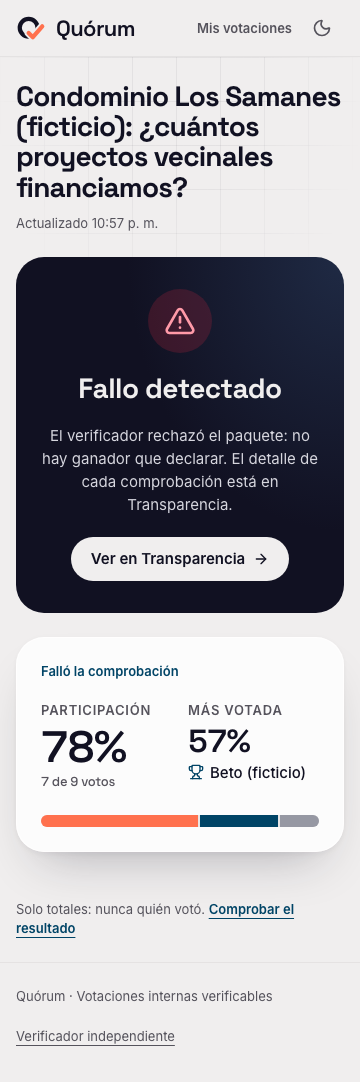
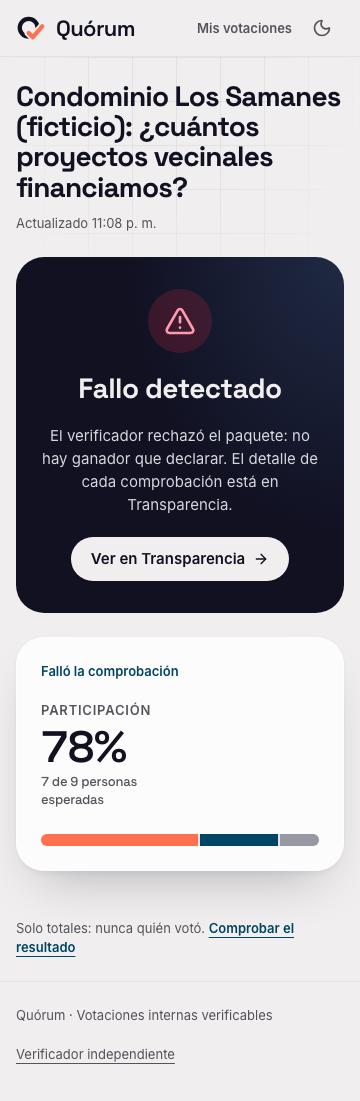
D-24: mínimo en 2 (K por defecto y desglose desde 2 votos); copy, tests y capturas al día
Claude-Session: https://claude.ai/code/session_0126UDXVedLgwsVx5cb5fxdw

diff --git a/apps/web/e2e/screenshots.fotos.spec.ts b/apps/web/e2e/screenshots.fotos.spec.ts
@@ -67,7 +67,7 @@ function tallyOf(mock: MockV1, counts: number[], phase: Phase) {
     leadingShare: total ? Math.max(...counts) / total : null,
     closesAt: "2026-10-24T22:00:00.000Z",
     status: phase,
-    options: mock.options.map((o, i) => ({ id: o.id, label: o.label, count: total >= 5 ? (counts[i] ?? 0) : null })),
+    options: mock.options.map((o, i) => ({ id: o.id, label: o.label, count: total >= 2 ? (counts[i] ?? 0) : null })),
   });
 }
 
@@ -109,9 +109,10 @@ test("espera animada y boleta con fotos (modo continuo)", async ({ page }) => {
   const imgs = await photos(page);
   const mock = new MockV1("open");
   mock.continuous = true;
-  mock.groupSize = 2; // con ella serán 3: faltan 2 para K=5
+  mock.minAnonymitySet = 2; // D-24: K por defecto
+  mock.groupSize = 0; // con ella será 1: falta 1 para K=2
   mock.options = optionsWithPhotos(imgs);
-  mock.room = { code: CODE, open: true, seatsTaken: 2, maxSeats: 500, expiresAt: new Date(Date.now() + 170 * 60_000).toISOString(), closedReason: null };
+  mock.room = { code: CODE, open: true, seatsTaken: 0, maxSeats: 500, expiresAt: new Date(Date.now() + 170 * 60_000).toISOString(), closedReason: null };
   await mock.install(page);
   await page.goto(`/j/${CODE}`);
   await page.getByLabel("Tu nombre o apodo").fill("Vecina del 4B");
@@ -119,7 +120,7 @@ test("espera animada y boleta con fotos (modo continuo)", async ({ page }) => {
   await expect(page.getByRole("heading", { name: "En espera para iniciar la votación" })).toBeVisible({ timeout: 60_000 });
   await page.waitForTimeout(900); // deja pasar la entrada de la página; las ondas siguen vivas (un fotograma)
   await page.screenshot({ path: path.join(OUT, "espera-360.png") });
-  mock.groupSize = 5;
+  mock.groupSize = 2;
   const options = page.getByRole("radio");
   await expect(options).toHaveCount(3, { timeout: 15_000 });
   await shot(page, "boleta-fotos-360");
@@ -161,7 +162,7 @@ test("en vivo: tarjetas, ganador, empate y fallo detectado", async ({ page }) =>
     await mock.install(page);
     await page.setViewportSize({ width: 360, height: 740 });
     await page.goto(`/e/${E2E.electionId}/live`);
-    await expect(page.getByText(NAMES[1]!).first()).toBeVisible();
+    await expect(page.getByText(NAMES[1]!).locator("visible=true").first()).toBeVisible();
     await page.waitForTimeout(800);
     await shot(page, `${c.name}-360`, true);
     await page.setViewportSize({ width: 1440, height: 900 });

diff --git a/apps/web/src/lib/server/__tests__/continuous-edge.test.ts b/apps/web/src/lib/server/__tests__/continuous-edge.test.ts
@@ -57,7 +57,7 @@ type Org = { id: string; auth: Record<string, string>; code: string };
 type Seat = { voterId: string; inviteToken: string };
 
 async function setup(extra: Record<string, unknown> = {}): Promise<Org> {
-  const { votingMode: _phased, ...base } = sampleElection(extra);
+  const { votingMode: _phased, ...base } = sampleElection({ minAnonymitySet: 5, ...extra });
   void _phased;
   const created = await call(createElection, { body: base });
   expect(created.status).toBe(201);
@@ -205,18 +205,18 @@ describe("modo continuo · casos límite (QA evento en vivo)", () => {
     expect((await call(audit, { params: { id: org.id } })).json.auditResult.valid).toBe(true);
   }, 120_000);
 
-  it("C3 en continuo: mientras se vota el desglose sale por lotes de 5 boletas (el 6.º voto no lo mueve); al cerrar, exacto", async () => {
+  it("C3 en continuo: mientras se vota el desglose sale por lotes de 2 boletas (el 5.º voto no lo mueve, el 6.º sí); al cerrar, exacto", async () => {
     const org = await setup({ minAnonymitySet: 2 });
     const people = [];
     for (let i = 0; i < 6; i++) people.push(await enter(org, 950 + i));
     const choices = [0, 0, 1, 2, 1, 2];
     for (let i = 0; i < 5; i++) expect((await ballot(org, await proofFor(org, people[i].identity.privateKey, choices[i]))).status).toBe(201);
     const five = (await call(tally, { params: { id: org.id } })).json;
-    expect(five.options.map((o: { count: number }) => o.count)).toEqual([2, 2, 1]);
+    expect(five.options.map((o: { count: number }) => o.count)).toEqual([2, 1, 1]); // 4 del lote completo; el 5.º espera
     expect((await ballot(org, await proofFor(org, people[5].identity.privateKey, choices[5]))).status).toBe(201);
     const six = (await call(tally, { params: { id: org.id } })).json;
     expect(six).toMatchObject({ totalVotes: 6, eligible: 6, status: "open" });
-    expect(six.options.map((o: { count: number }) => o.count)).toEqual([2, 2, 1]);
+    expect(six.options.map((o: { count: number }) => o.count)).toEqual([2, 2, 2]); // el 6.º completa el lote
     await call(close, { params: { id: org.id }, headers: org.auth });
     const final = (await call(tally, { params: { id: org.id } })).json;
     expect(final.options.map((o: { count: number }) => o.count)).toEqual([2, 2, 2]);

diff --git a/apps/web/src/lib/server/__tests__/adversarial.test.ts b/apps/web/src/lib/server/__tests__/adversarial.test.ts
@@ -297,20 +297,20 @@ describe("AT-10 privacidad de datos públicos y de la DB (public_data_privacy)",
     expect(caracasDayStart(new Date("2026-10-24T03:59:59.999Z")).toISOString()).toBe("2026-10-23T04:00:00.000Z");
   });
 
-  it("tally en vivo por lotes de 5: el 6.º voto no cambia el desglose hasta completar el lote; al cerrar, recuento exacto", async () => {
+  it("tally en vivo por lotes de MIN_VOTES_FOR_BREAKDOWN (2): el 7.º voto no cambia el desglose hasta completar el lote; al cerrar, recuento exacto", async () => {
     const org = await setupRegistration();
     const vs = [];
-    for (let i = 0; i < 6; i++) vs.push(await register(org, 90 + i));
+    for (let i = 0; i < 7; i++) vs.push(await register(org, 90 + i));
     await openIt(org);
-    const opts = [0, 0, 1, 2, 2, 1];
-    for (let i = 0; i < 6; i++) expect((await call(vote, { params: { id: org.id }, body: { proof: await ballot(org.id, vs[i].identity.privateKey, opts[i]) } })).status).toBe(201);
+    const opts = [0, 0, 1, 2, 2, 1, 0];
+    for (let i = 0; i < 7; i++) expect((await call(vote, { params: { id: org.id }, body: { proof: await ballot(org.id, vs[i].identity.privateKey, opts[i]) } })).status).toBe(201);
     const live = (await call(tally, { params: { id: org.id } })).json;
-    expect(live.totalVotes).toBe(6);
-    expect(live.options.map((o: { count: number }) => o.count)).toEqual([2, 1, 2]);
-    expect(live.leadingShare).toBeCloseTo(2 / 5);
+    expect(live.totalVotes).toBe(7);
+    expect(live.options.map((o: { count: number }) => o.count)).toEqual([2, 2, 2]); // 6 del lote completo; el 7.º espera
+    expect(live.leadingShare).toBeCloseTo(2 / 6);
     await call(close, { params: { id: org.id }, headers: org.auth });
     const final = (await call(tally, { params: { id: org.id } })).json;
-    expect(final.options.map((o: { count: number }) => o.count)).toEqual([2, 2, 2]);
+    expect(final.options.map((o: { count: number }) => o.count)).toEqual([3, 2, 2]); // al cerrar, exacto
   }, 60_000);
 
   const PII_KEYS = ["displayName", "phoneE164", "inviteToken", "walletAddress", "faceBindingHash", "voterId"];

diff --git a/apps/web/src/components/LiveResultTile.tsx b/apps/web/src/components/LiveResultTile.tsx
@@ -2,7 +2,7 @@
 
 import { useEffect, useState } from "react";
 /* Agregados con fase v1 (registration/drawn además de las de v0). */
-import type { Aggregates } from "@quorum/contracts";
+import { MIN_VOTES_FOR_BREAKDOWN, type Aggregates } from "@quorum/contracts";
 import { Bar, BarChart, CartesianGrid, Cell, Pie, PieChart, ResponsiveContainer, Tooltip, XAxis, YAxis } from "recharts";
 import { Card, CardContent, CardHeader, CardTitle } from "@/components/ui/card";
 import { formatCountdown, formatInt, formatPercent } from "@/lib/client/format";
@@ -168,7 +168,7 @@ function BarListTile({ rows, data }: { rows: { name: string; votos: number }[]; 
 
 function HiddenTile({ title, data }: { title: string; data: Aggregates }) {
   return (
-    <TileShell title={title} note="Se muestra desde 5 votos, por privacidad.">
+    <TileShell title={title} note={`Se muestra desde ${MIN_VOTES_FOR_BREAKDOWN} votos, por privacidad.`}>
       <p className="text-heading font-semibold">{HIDDEN_NOTE}</p>
       <p className="text-small text-muted-foreground">Votos incluidos hasta ahora: {formatInt(data.totalVotes)}</p>
     </TileShell>
@@ -194,7 +194,7 @@ export function CountdownTile({ closesAt, status }: { closesAt: string; status: 
 
 const TEXTS: Record<"howToRead" | "privacyNote" | "rankingHint" | "budgetHint", { title: string; body: string }> = {
   howToRead: { title: "Cómo leer esto", body: "Totales publicados cada pocos segundos. No muestran quién votó ni votos individuales." },
-  privacyNote: { title: "Privacidad", body: "Con menos de 5 votos el desglose se oculta. El servidor ve el contenido de cada boleta." },
+  privacyNote: { title: "Privacidad", body: `Con menos de ${MIN_VOTES_FOR_BREAKDOWN} votos el desglose se oculta. El servidor ve el contenido de cada boleta.` },
   rankingHint: { title: "Orden de preferencia", body: "Las barras muestran menciones por opción. El orden final sale del escrutinio verificado." },
   budgetHint: { title: "Presupuesto participativo", body: "Apoyo acumulado por partida. El reparto sigue las reglas publicadas." },
 };

diff --git a/apps/web/src/components/__tests__/results.test.tsx b/apps/web/src/components/__tests__/results.test.tsx
@@ -25,9 +25,9 @@ describe("ResultsCard", () => {
     expect(screen.queryByText("Va ganando")).toBeNull();
   });
 
-  it("con menos de 5 votos oculta el desglose y dice cuántos faltan", () => {
+  it("con menos de 2 votos oculta el desglose y dice cuántos faltan", () => {
     render(<ResultsCard {...base} totalVotes={1} turnout={1 / 3} eligible={3} options={[{ id: "a", label: "Uno", count: null }, { id: "b", label: "Dos", count: null }]} />);
-    expect(screen.getByText("Faltan 4 votos para ver el desglose")).toBeTruthy();
+    expect(screen.getByText("Falta 1 voto para ver el desglose")).toBeTruthy();
     expect(screen.queryByText("Uno")).toBeNull();
     expect(screen.queryByText("Va ganando")).toBeNull();
   });
@@ -167,14 +167,14 @@ describe("WinnerScreen", () => {
     expect(screen.getByRole("link", { name: /Ver en Transparencia/ }).getAttribute("href")).toBe("/e/e2e-samanes");
   });
 
-  it("menos de 5 votos al cierre: sin desglose ni ganador", () => {
-    render(<WinnerScreen electionId="x" status="auditable" options={seven.map((o) => ({ ...o, count: null }))} totalVotes={3} audit={audit} />);
+  it("menos de 2 votos al cierre: sin desglose ni ganador", () => {
+    render(<WinnerScreen electionId="x" status="auditable" options={seven.map((o) => ({ ...o, count: null }))} totalVotes={1} audit={audit} />);
     const box = screen.getByTestId("winner-screen");
     expect(box.getAttribute("data-outcome")).toBe("hidden");
     expect(box.textContent).toContain("Se publicó sin desglose");
-    expect(box.textContent).toContain("Menos de 5 votos");
+    expect(box.textContent).toContain("Menos de 2 votos");
     expect(screen.queryByTestId("winner-name")).toBeNull();
     expect(screen.queryAllByTestId("ranked-card").length).toBe(0);
-    expect(winnerOutcome("auditable", seven, 4).kind).toBe("hidden");
+    expect(winnerOutcome("auditable", seven, 1).kind).toBe("hidden");
   });
 });

diff --git a/apps/web/e2e/screenshots.org.spec.ts b/apps/web/e2e/screenshots.org.spec.ts
@@ -129,16 +129,16 @@ test("panel: Más abierto con casos 360", async ({ page }) => {
   await shot(page, "panel-mas-casos", 360);
 });
 
-test("panel: votación con menos de 5 votos 360", async ({ page }) => {
+test("panel: votación con menos de 2 votos 360", async ({ page }) => {
   await at(page, 360, "open", (m) => {
     m.endsAt = new Date(Date.now() + 97 * 60_000).toISOString();
     m.votingStartsAt = new Date(Date.now() - 23 * 60_000).toISOString();
   });
   await page.route(`**/api/elections/${E2E.electionId}/tally`, (r) =>
-    r.fulfill({ contentType: "application/json", body: JSON.stringify({ electionId: E2E.electionId, turnout: 3 / 9, totalVotes: 3, eligible: 9, leadingShare: null, closesAt: "2026-10-24T22:00:00.000Z", status: "open", options: E2E.options.map((o) => ({ ...o, count: null })) }) }),
+    r.fulfill({ contentType: "application/json", body: JSON.stringify({ electionId: E2E.electionId, turnout: 1 / 9, totalVotes: 1, eligible: 9, leadingShare: null, closesAt: "2026-10-24T22:00:00.000Z", status: "open", options: E2E.options.map((o) => ({ ...o, count: null })) }) }),
   );
   await withToken(page);
   await page.goto(`/org/${E2E.electionId}`);
-  await expect(page.getByTestId("live-breakdown")).toContainText("3 de 5 votos");
+  await expect(page.getByTestId("live-breakdown")).toContainText("1 de 2 votos");
   await shot(page, "panel-votacion-pocos", 360);
 });

diff --git a/packages/contracts/src/index.ts b/packages/contracts/src/index.ts
@@ -18,8 +18,8 @@ export type ElectionStatus = z.infer<typeof ElectionStatus>;
  */
 export const VotingMode = z.enum(["continuous", "phased"]);
 export type VotingMode = z.infer<typeof VotingMode>;
-/** K por defecto: no se aceptan votos mientras el grupo tenga menos miembros. */
-export const DEFAULT_MIN_ANONYMITY_SET = 5;
+/** K por defecto (D-24): no se aceptan votos mientras el grupo tenga menos miembros. Con 2 la privacidad es mínima: se declara. */
+export const DEFAULT_MIN_ANONYMITY_SET = 2;
 export const MinAnonymitySet = z.number().int().min(2).max(100);
 
 export const Protocol = z.enum(["semaphore-ledger", "davinci", "helios", "integrity-demo"]);
@@ -335,8 +335,8 @@ export const Receipt = z.object({
   onchainStatus: z.enum(["verificado", "no verificable", "fallo detectado"]).optional(),
 });
 
-/** Agregados públicos: nunca votos individuales. Con menos de 5 votos no se desglosa por opción. */
-export const MIN_VOTES_FOR_BREAKDOWN = 5;
+/** Agregados públicos: nunca votos individuales. Con menos de MIN_VOTES_FOR_BREAKDOWN votos no se desglosa por opción (D-24: 2). */
+export const MIN_VOTES_FOR_BREAKDOWN = 2;
 
 export const Aggregates = z.object({
   electionId: z.string(), turnout: z.number().min(0).max(1), totalVotes: z.number().int().min(0), eligible: z.number().int().min(0),

diff --git a/apps/web/src/lib/server/__tests__/flow.test.ts b/apps/web/src/lib/server/__tests__/flow.test.ts
@@ -163,7 +163,8 @@ describe("Contrato v1 — flujo completo Los Samanes", () => {
       receipts.push(res.json);
       const m = await call(voted, { params: { id: voters[i].id }, body: { inviteToken: voters[i].inviteToken } });
       expect(m.status).toBe(200);
-      if (i < 4) {
+      if (i < 1) {
+        // Con menos de MIN_VOTES_FOR_BREAKDOWN (2) votos no hay desglose; desde ahí se publica por lotes completos.
         const t = await call(tally, { params: { id: org.id } });
         expect(t.json.options.every((o: { count: number | null }) => o.count === null)).toBe(true);
       }
@@ -175,7 +176,8 @@ describe("Contrato v1 — flujo completo Los Samanes", () => {
     const t = await call(tally, { params: { id: org.id } });
     expect(t.json.totalVotes).toBe(5);
     expect(t.json.eligible).toBe(6);
-    expect(t.json.options.map((o: { count: number }) => o.count)).toEqual([1, 1, 3, 0, 0]);
+    // En vivo, por lotes completos de MIN_VOTES_FOR_BREAKDOWN (2): con 5 votos se publican los 4 primeros [2,2,1,2]; el 5.º (opción 0) espera.
+    expect(t.json.options.map((o: { count: number }) => o.count)).toEqual([0, 1, 3, 0, 0]);
 
     // Recibo por nullifier
     const rc = await call(receipt, { params: { id: org.id, inclusionId: receipts[1].nullifier } });

diff --git a/apps/web/src/components/voter/VoterFlow.tsx b/apps/web/src/components/voter/VoterFlow.tsx
@@ -4,7 +4,7 @@ import dynamic from "next/dynamic";
 import Link from "next/link";
 import { useCallback, useEffect, useRef, useState } from "react";
 import { Clock, UserCheck } from "lucide-react";
-import type { InviteResponse as InviteV1, Receipt } from "@quorum/contracts";
+import { DEFAULT_MIN_ANONYMITY_SET, type InviteResponse as InviteV1, type Receipt } from "@quorum/contracts";
 import type { z } from "zod";
 import { ObserverPanel } from "@/components/room/ObserverPanel";
 import { ErrorState, LoadingState } from "@/components/states";
@@ -318,7 +318,7 @@ export function VoterFlow({ token }: { token: string }) {
               <SuccessMark className="size-8 [&>svg]:size-5" /> ¡Listo! Ya estás inscrito.
             </p>
           ) : null}
-          <AnonymityGate electionId={electionId} minAnonymitySet={invite.election.votingMode === "continuous" ? (invite.election.minAnonymitySet ?? 5) : null}>
+          <AnonymityGate electionId={electionId} minAnonymitySet={invite.election.votingMode === "continuous" ? (invite.election.minAnonymitySet ?? DEFAULT_MIN_ANONYMITY_SET) : null}>
           <BallotScreen
             electionId={electionId}
             electionTitle={title}

diff --git a/apps/web/src/components/election/TransparencyCenter.tsx b/apps/web/src/components/election/TransparencyCenter.tsx
@@ -15,7 +15,7 @@ import { FIXTURE_PACKAGE_ID, FIXTURE_PACKAGE_URL } from "@/lib/client/fixtures";
 import { formatDateTime, kindLabel } from "@/lib/client/format";
 import { hasAuditPackage, phaseLabel } from "@/lib/client/phases";
 import { basescanTxUrl } from "@/lib/client/room";
-import type { Aggregates as AggregatesV1, AuditResponse as StoredAudit, Election as ElectionV1 } from "@quorum/contracts";
+import { MIN_VOTES_FOR_BREAKDOWN, type Aggregates as AggregatesV1, type AuditResponse as StoredAudit, type Election as ElectionV1 } from "@quorum/contracts";
 import { AnonymityCard } from "./AnonymityCard";
 import { MyVoteCheck } from "./MyVoteCheck";
 import { PhaseTimeline } from "./PhaseTimeline";
@@ -43,7 +43,7 @@ async function loadFixture(): Promise<Fixture> {
       leadingShare: null,
       closesAt: m.endsAt,
       status: "auditable",
-      options: m.options.map((o, i) => ({ id: o.id, label: o.label, count: pkg.tally.total < 5 ? null : (pkg.tally.counts[i] ?? 0) })),
+      options: m.options.map((o, i) => ({ id: o.id, label: o.label, count: pkg.tally.total < MIN_VOTES_FOR_BREAKDOWN ? null : (pkg.tally.counts[i] ?? 0) })),
     },
   };
 }

diff --git a/apps/web/src/components/__tests__/org.test.tsx b/apps/web/src/components/__tests__/org.test.tsx
@@ -141,11 +141,11 @@ describe("panel cabina", () => {
     expect(cockpitPhase.drawn.label).toBe("Sorteada");
     expect(cockpitPhase.failed.label).toBe("Fallida");
   });
-  it("LiveBreakdown: con count null no desglosa: barras fantasma y «3 de 5 votos · se publica desde 5»", () => {
-    render(<LiveBreakdown tally={tally([null, null], 3)} />);
+  it("LiveBreakdown: con count null no desglosa: barras fantasma y «1 de 2 votos · se publica desde 2»", () => {
+    render(<LiveBreakdown tally={tally([null, null], 1)} />);
     const box = screen.getByTestId("live-breakdown");
-    expect(box.textContent).toContain("3 de 5 votos");
-    expect(box.textContent).toContain("Se publica desde 5 votos");
+    expect(box.textContent).toContain("1 de 2 votos");
+    expect(box.textContent).toContain("Se publica desde 2 votos");
     expect(box.querySelector("table")).toBeNull();
     expect(screen.getByTestId("live-leader").textContent).toBe("Por opción");
   });

diff --git a/apps/web/src/lib/server/elections.ts b/apps/web/src/lib/server/elections.ts
@@ -284,7 +284,7 @@ export async function listVoterSummaries(electionId: string) {
 }
 
 // ---------------------------------------------------------------------------
-// Agregados (solo totales; con < 5 votos no se desglosa; en vivo, por lotes de 5)
+// Agregados (solo totales; con < MIN_VOTES_FOR_BREAKDOWN votos no se desglosa; en vivo, por lotes de ese tamaño)
 // ---------------------------------------------------------------------------
 export async function computeAggregates(e: Election): Promise<Aggregates> {
   const engine = await (await getStore()).getEngine(e.id);
